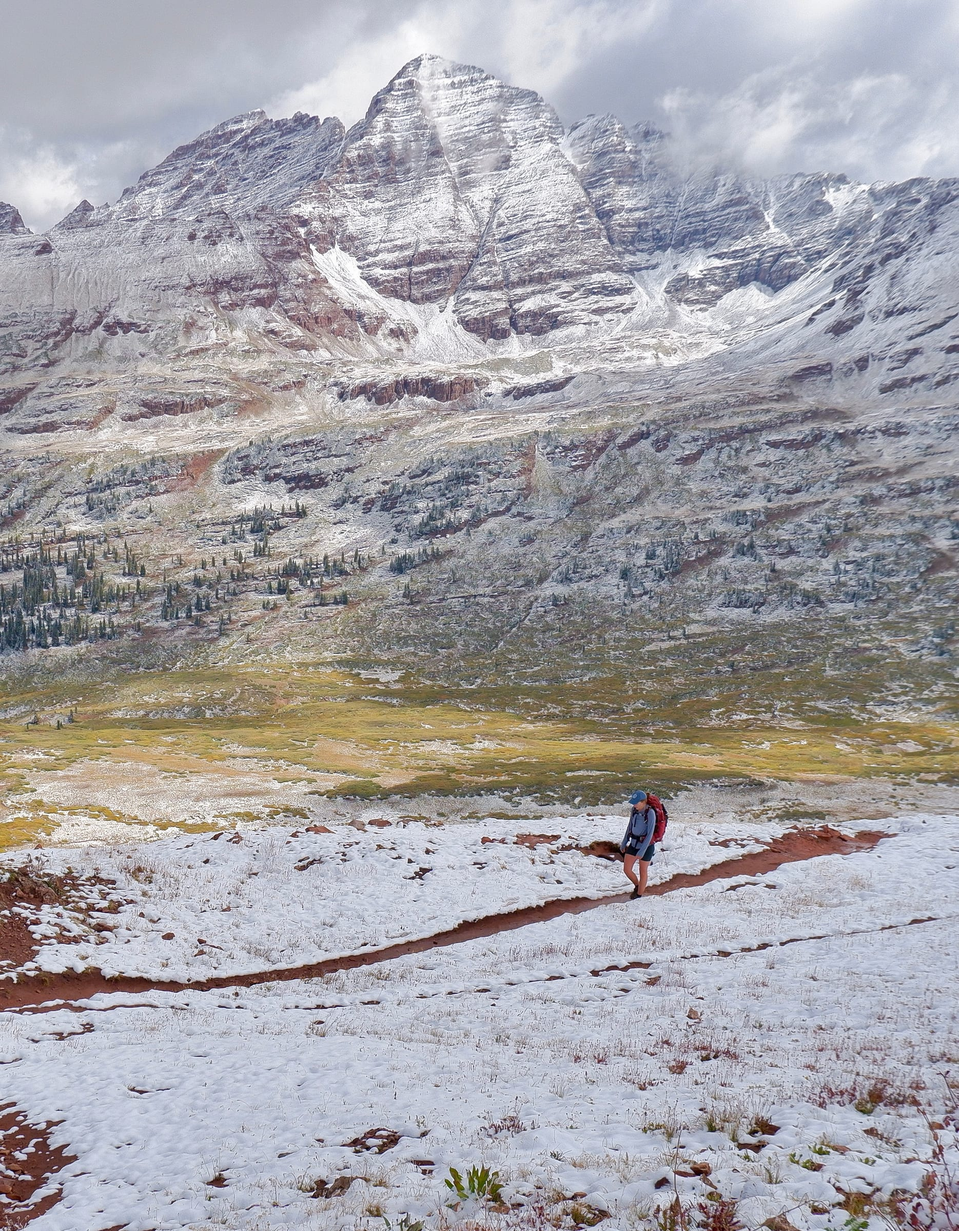
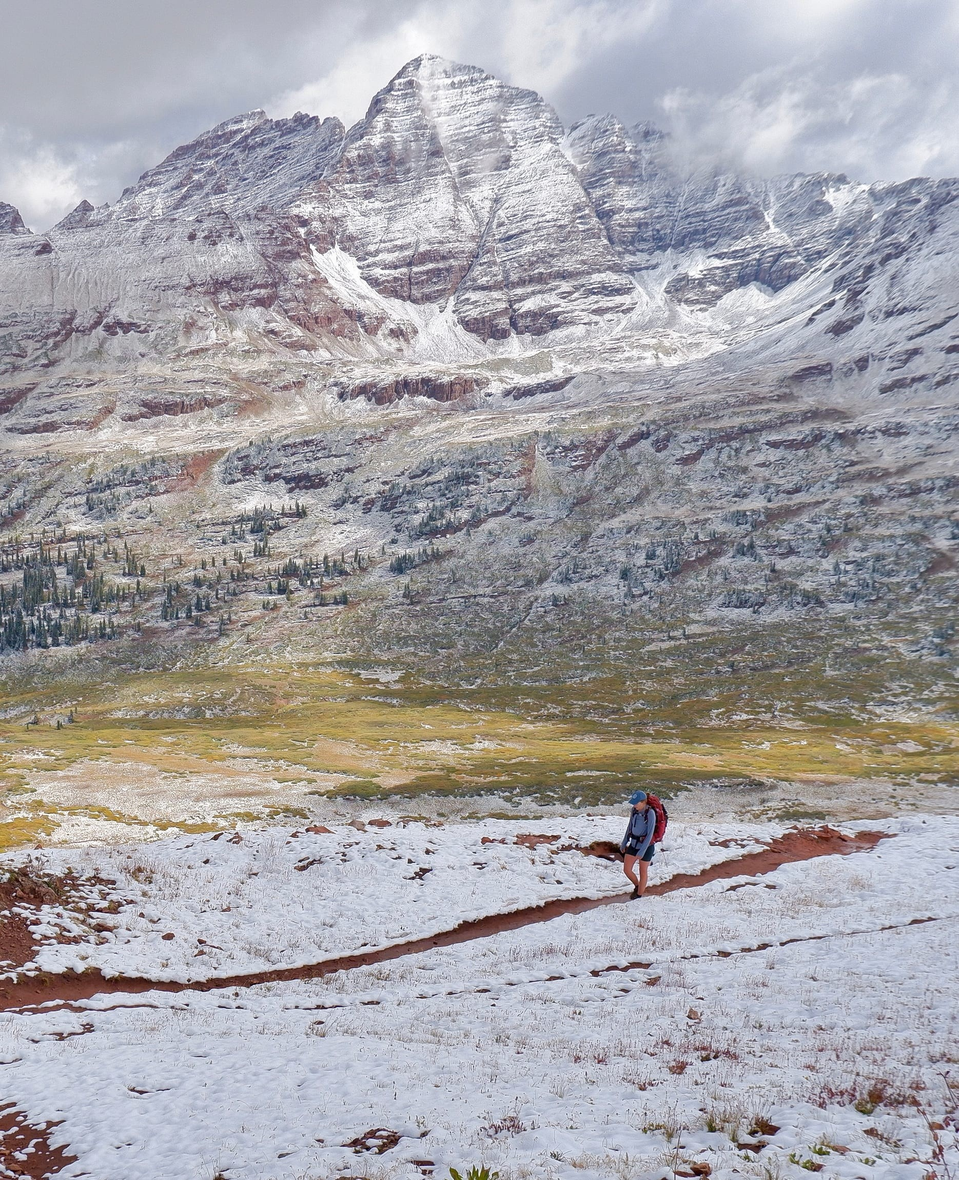
update home content and layout

diff --git a/src/styles/blocks/prose.css b/src/styles/blocks/prose.css
@@ -11,133 +11,144 @@ CUSTOM PROPERTIES AND CONFIGURATION
 
 /* Default flow space. Change this one value to change the overall flow */
 .prose {
-    --flow-space: var(--space-lg, 2rem);
+  --flow-space: var(--space-lg, 2rem);
 }
 
 /* Increase legibility by limiting line lengths */
 .prose :is(p, li, dl, figcaption, blockquote) {
-    max-width: 70ch;
-    text-wrap: pretty;
+  max-width: 70ch;
+  text-wrap: pretty;
 }
 
 /* Limit the length of headings, too */
 .prose :is(h1, h2, h3, h4) {
-    max-width: 35ch;
+  max-width: 35ch;
 }
 
 .prose :is(h1, h2, h3) {
-    /* Allow words to break by default. */
-    overflow-wrap: anywhere;
+  /* Allow words to break by default. */
+  overflow-wrap: anywhere;
 }
 
 /* Heading flow for elements that follow them */
 .prose :is(h1, h2, h3, h4):not(.not-prose) + *:not(.not-prose) {
-    --flow-space: var(--space-md, 1.5rem);
+  --flow-space: var(--space-md, 1.5rem);
 }
 
 /* Add more space on and around figures and tables */
 .prose :is(figure, table):not(.not-prose),
 .prose :is(figure, table):not(.not-prose) + *:not(.not-prose) {
-    --flow-space: var(--space-2xl, 3rem);
+  --flow-space: var(--space-2xl, 3rem);
 }
 
 /* Add more space to headings on block start */
 .prose *:not(.not-prose) + :is(h1, h2, h3, h4):not(.not-prose) {
-    --flow-space: var(--space-xl, 2.5rem);
+  --flow-space: var(--space-xl, 2.5rem);
 }
 
 /* Flow for list items */
 .prose :is(ul, ol):not(.not-prose) li + li,
 .prose :is(ul, ol):not(.not-prose) li > :is(ol, ul):not(.not-prose) {
-    margin-block-start: var(--space-xs, 0.75rem);
+  margin-block-start: var(--space-xs, 0.75rem);
 }
 
 /* Flow for list items when a paragraph is inside it.*/
 .prose :is(ul, ol):not(.not-prose) li + li:has(p) {
-    margin-block-start: var(--flow-space, var(--space-lg, 2rem));
+  margin-block-start: var(--flow-space, var(--space-lg, 2rem));
 }
 
 /* Flow for paragraphs used inside list items */
 .prose :is(ul, ol) li:has(> p) > p {
-    margin-block-start: var(--space-xs, 0.75rem);
+  margin-block-start: var(--space-xs, 0.75rem);
 }
 
 /* Flow for dt/dd groups.*/
 .prose :is(dl):not(.not-prose) dd + dt {
-    margin-block-start: var(--flow-space, var(--space-lg, 2rem));
+  margin-block-start: var(--flow-space, var(--space-lg, 2rem));
 }
 
 /* Flow for dt/dd pairs */
 .prose :is(dl):not(.not-prose) dt + dd {
-    margin-block-start: var(--space-xs, 0.75rem);
+  margin-block-start: var(--space-xs, 0.75rem);
 }
 
 /* Add lots of space for horizontal rules */
 .prose :is(hr) {
-    --flow-space: var(--space-2xl, 3rem);
+  --flow-space: var(--space-2xl, 3rem);
 }
 
 /* Bump up the line height for paragraphs */
 .prose :is(p) {
-    line-height: 2;
+  line-height: 2;
 }
 
 /* Bump down the font weight for headings, dt, and strong */
 .prose :is(h1, h2, h3, h4, h5, h6, dt, strong) {
-    font-weight: var(--font-weight-semibold, 600);
+  font-weight: var(--font-weight-semibold, 600);
 }
 
 .prose :is(blockquote) {
-    padding-inline-start: var(--space-sm, 1rem);
-    border-inline-start-width: 0.25rem;
-    border-inline-start-style: solid;
-    border-inline-start-color: var(
-        --prose-blockquote-border-color,
-        var(--color-surface-border, currentColor)
-    );
+  padding-inline-start: var(--space-sm, 1rem);
+  border-inline-start-width: 0.25rem;
+  border-inline-start-style: solid;
+  border-inline-start-color: var(
+    --prose-blockquote-border-color,
+    var(--color-surface-border, currentColor)
+  );
 }
 
 .prose :is(blockquote) p {
-    font-style: italic;
-    font-weight: var(--font-weight-medium, 500);
+  font-style: italic;
+  font-weight: var(--font-weight-medium, 500);
 }
 
 .prose :is(kbd) {
-    border-radius: var(--form-control-radius, 0.25rem);
+  border-radius: var(--form-control-radius, 0.25rem);
 }
 
 .prose :is(code):not(.not-prose):not(pre code) {
-    font-weight: var(--font-weight-semibold, 600);
-    font-size: 0.95em;
-    background: revert;
+  font-weight: var(--font-weight-semibold, 600);
+  font-size: 0.95em;
+  background: revert;
 }
 
 .prose :is(code):not(.not-prose):not(pre code):before {
-    content: "`";
+  content: "`";
 }
 
 .prose :is(code):not(.not-prose):not(pre code):after {
-    content: "`";
+  content: "`";
 }
 
 .prose pre {
-    border-radius: var(--panel-radius, 0.5rem);
+  border-radius: var(--panel-radius, 0.5rem);
 }
 
 .prose :is(ol, ul):not(.not-prose) {
-    padding-inline-start: var(--space-md, 1.5rem);
+  padding-inline-start: var(--space-md, 1.5rem);
 }
 
 .prose :is(ol, ul):not(.not-prose) li {
-    padding-inline-start: var(--space-2xs, 0.5rem);
+  padding-inline-start: var(--space-2xs, 0.5rem);
 }
 
 .prose :is(ul > li):not(.not-prose)::marker {
-    color: var(--prose-list-marker-color, currentColor);
+  color: var(--prose-list-marker-color, currentColor);
 }
 
 .prose :is(ol > li):not(.not-prose)::marker {
-    font-weight: var(--font-weight-normal, 400);
-    color: var(--prose-list-marker-color, currentColor);
-    font-size: var(--prose-list-marker-size, 1em);
+  font-weight: var(--font-weight-normal, 400);
+  color: var(--prose-list-marker-color, currentColor);
+  font-size: var(--prose-list-marker-size, 1em);
+}
+
+.prose :is(a) {
+  text-decoration: underline;
+  background-image: none;
+  padding-block-end: 0;
+}
+
+.prose :is(a):hover {
+  opacity: 0.7;
+  background-size: 0% var(--stroke-width);
 }

diff --git a/src/data/site-data.ts b/src/data/site-data.ts
@@ -1,13 +1,12 @@
-import GithubIcon from '../assets/icons/github.svg?raw';
-import LinkedinIcon from '../assets/icons/linkedin.svg?raw';
-import BlueskyIcon from '../assets/icons/bluesky.svg?raw';
-import ResumeIcon from '../assets/icons/resume.svg?raw';
+import GithubIcon from "../assets/icons/github.svg?raw";
+import LinkedinIcon from "../assets/icons/linkedin.svg?raw";
+import BlueskyIcon from "../assets/icons/bluesky.svg?raw";
+import ResumeIcon from "../assets/icons/resume.svg?raw";
 
 export const siteData = {
   title: "Samsite",
   navItems: [
-    { label: "Home", href: "/", current: true },
-    { label: "Photography", href: "/photography" },
+    { label: "Photography", href: "/photography", current: false },
     { label: "Art", href: "/art" },
     { label: "Projects", href: "/projects" },
     { label: "About", href: "/about" },

diff --git a/src/styles/global/variables.css b/src/styles/global/variables.css
@@ -8,10 +8,15 @@
   --radius-l: 2.5rem;
   --uppercase-kerning: 0.04ch;
   --indent-size: var(--space-xs-sm);
-
-  --wrapper-max-width: 80rem;
+  --wrapper-padding-inline: var(--space-md-lg);
 
   color-scheme: light dark;
   --black: var(--color-stone-400);
   --background-light: var(--color-amber-50);
+}
+
+@media (min-width: 100rem) {
+  :root {
+    --wrapper-padding-inline: var(--space-sm-md);
+  }
 }

diff --git a/src/styles/blocks/site-foot.css b/src/styles/blocks/site-foot.css
@@ -19,6 +19,16 @@
   gap: var(--space-md);
 }
 
+@media (max-width: 40rem) {
+  .site-foot__columns {
+    grid-template-columns: 1fr;
+  }
+
+  .site-foot__columns > * + * {
+    margin-block-start: var(--flow-space, 1em);
+  }
+}
+
 .site-foot .nav .cluster {
   flex-direction: column;
   align-items: flex-start;

diff --git a/src/styles/blocks/home.css b/src/styles/blocks/home.css
@@ -1,6 +1,7 @@
 .hero-content-container {
-  max-width: 80rem;
+  max-width: var(--wrapper-max-width);
   margin-inline: auto;
+  padding-inline: var(--wrapper-padding-inline);
 }
 
 .hero-content {
@@ -68,4 +69,9 @@
       opacity: 1;
     }
   }
+}
+
+.explore-list {
+  list-style: none;
+  padding-left: 0;
 }
